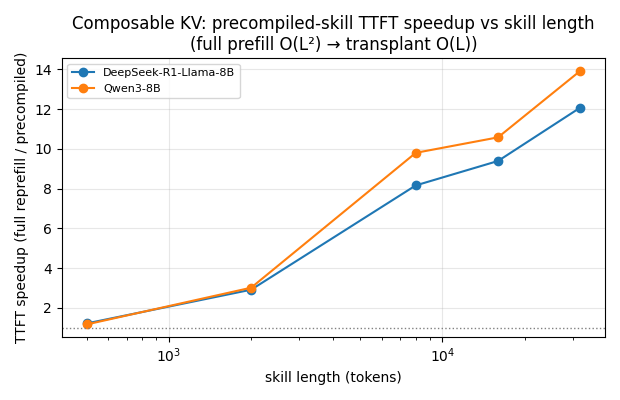
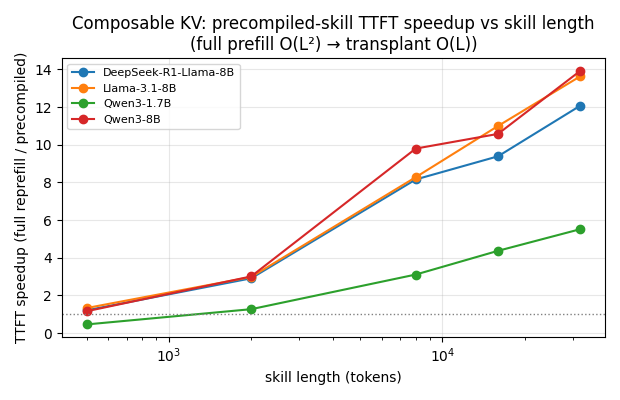
Complete TTFT scaling figure: 4 models (1.7B 5.5x, DeepSeek 12x, Llama-3.1 13.6x, 8B 13.9x @user)
Clean --scaling to 32k on Qwen3-1.7B + Llama-3.1-8B; fig_composable_scaling now has 4 model families.
Bigger models -> bigger TTFT wins (1.7B 5.5x -> 8B/Llama 13.7-13.9x at 32k skill tokens). PAPER §10.5.

diff --git a/patchkv/esys/make_composable_figures.py b/patchkv/esys/make_composable_figures.py
@@ -5,7 +5,7 @@ import matplotlib.pyplot as plt
 
 R = os.path.join(os.path.dirname(__file__), "..", "results")
 F = os.path.join(os.path.dirname(__file__), "..", "figures")
-NAMES = {"qwen3_8b": "Qwen3-8B", "dsr1_llama8b": "DeepSeek-R1-Llama-8B", "qwen3_1p7b": "Qwen3-1.7B"}
+NAMES = {"qwen3_8b": "Qwen3-8B", "dsr1_llama8b": "DeepSeek-R1-Llama-8B", "qwen3_1p7b": "Qwen3-1.7B", "llama31_8b": "Llama-3.1-8B", "qwen3_4b": "Qwen3-4B"}
 
 
 def fig_scaling():

diff --git a/patchkv/PAPER.md b/patchkv/PAPER.md
@@ -458,8 +458,7 @@ and the precompiled-transplant model also **16/16**, with **16/16 decision agree
 is lossless for skill-following when the model actually reasons over the skill.
 
 **10.5 TTFT scaling + the library (Fig. `fig_composable_scaling`; analog of §9 serving).** Full reprefill
-is O(L²) in skill length; transplant is O(L) re-rotation + small prefill. On Qwen3-8B the TTFT speedup
-is **1.16× @500 tok, 3.0× @2k, 9.8× @8k, 13.9× @32k**. A **skill library** composes: stacking N=1–4
+is O(L²) in skill length; transplant is O(L) re-rotation + small prefill. The TTFT speedup grows with model size and skill length — at 32k skill tokens: **5.5× (1.7B), 12× (DeepSeek-8B), 13.6× (Llama-3.1-8B), 13.9× (Qwen3-8B)**; on 8B: 1.16×@500, 3.0×@2k, 9.8×@8k. A **skill library** composes: stacking N=1–4
 precompiled skills preserves the decision (4/4 agreement vs full).
 
 **10.6 Keystone — edit *inside* a transplanted skill (Fig. `fig_keystone`, `esys/compose_edit.py`).** We precompile a skill